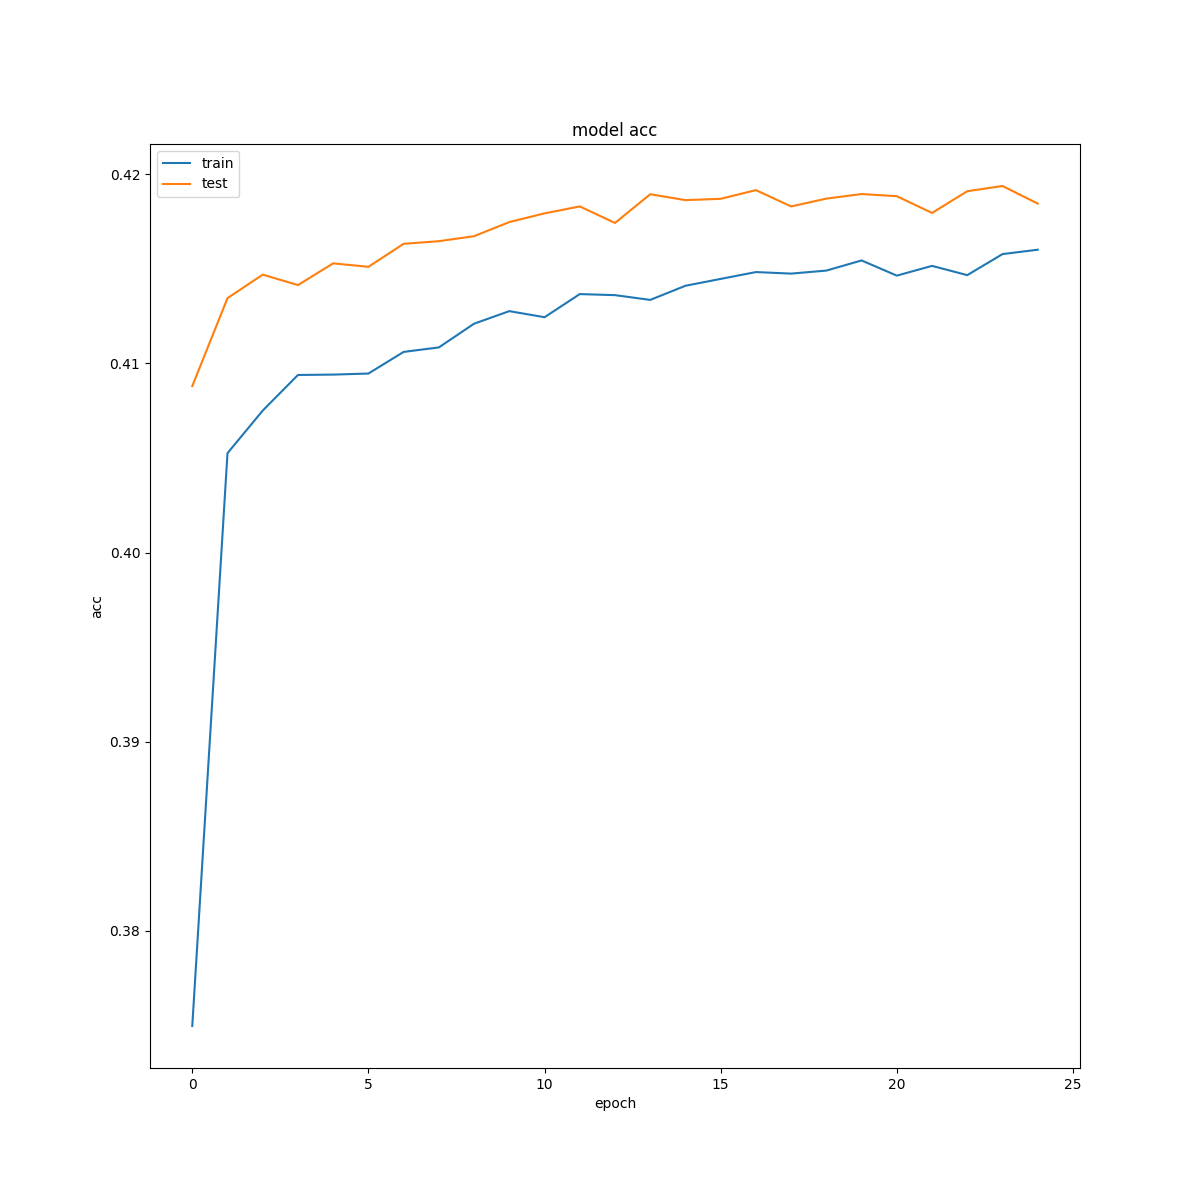
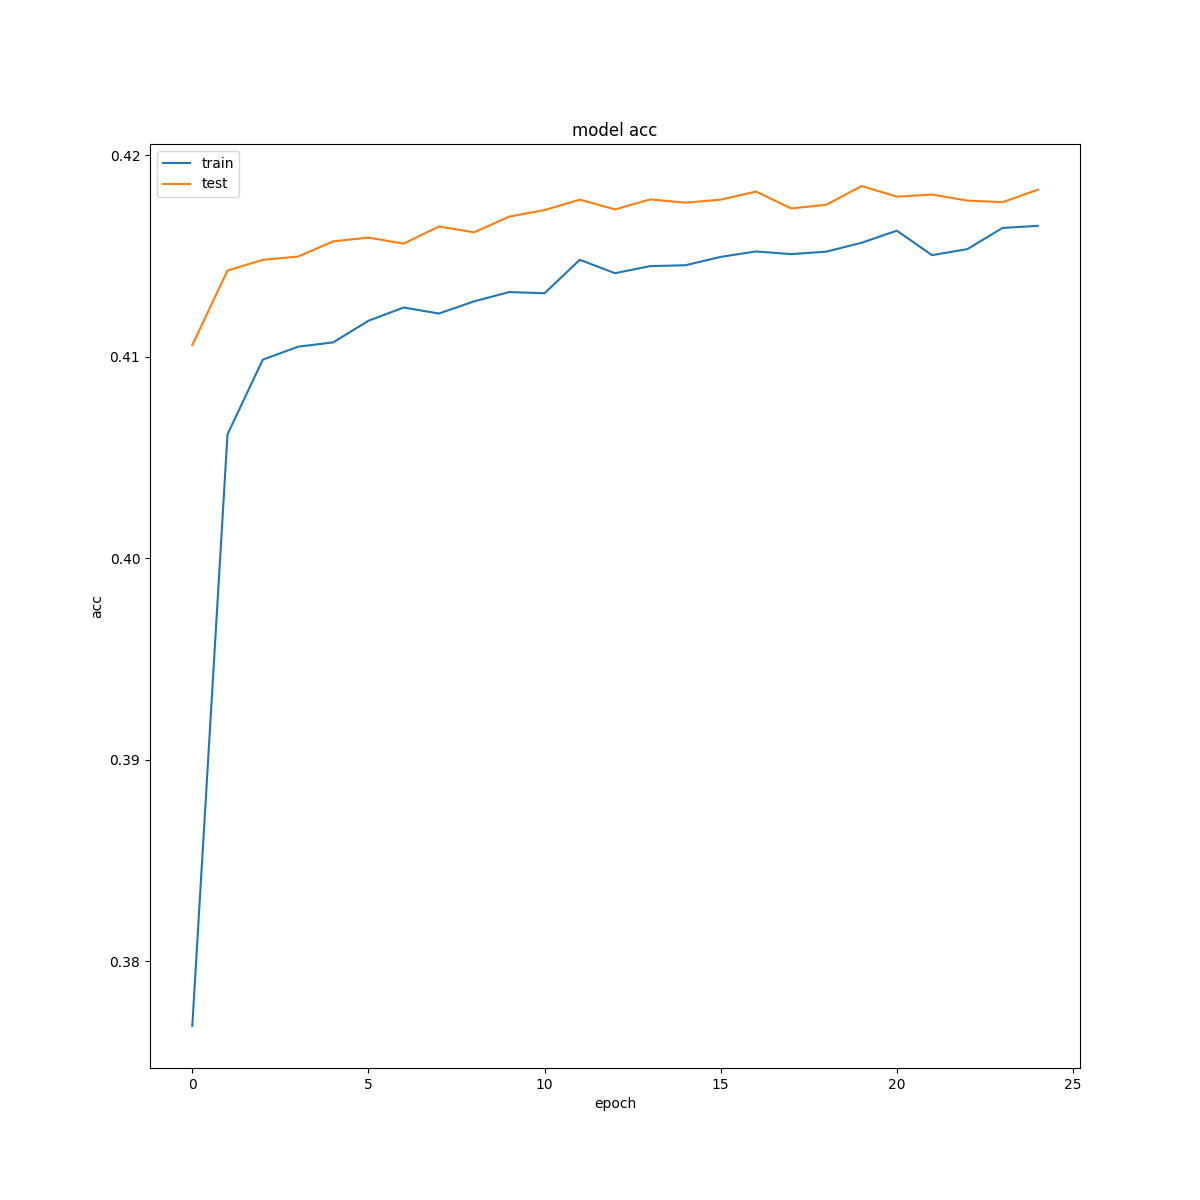
mfa gowalla desemepenho menor para nova oparação

diff --git a/model/next_poi_category_prediction_models/gowalla/mfa_rnn.py b/model/next_poi_category_prediction_models/gowalla/mfa_rnn.py
@@ -121,14 +121,12 @@ class MFA_RNN(NNBase):
         temporal_flatten = Flatten()(temporal_embedding)
         distance_flatten = Flatten()(distance_embbeding)
         duration_flatten = Flatten()(duration_embbeding)
-        id_flatten = Flatten()(id_embedding)
-        id_flatten = Dense(49)(id_flatten)
-        print("1  ", id_flatten.shape)
-        id_unit = tf.keras.layers.Reshape((7, 7))(id_flatten)
-        print("ttt", id_unit.shape)
+
+        # melhor -
+        distance_duration = tf.Variable(initial_value=0.1) * tf.multiply(distance_embbeding, duration_embbeding)
 
         l_p_flatten = Concatenate()([spatial_flatten, temporal_flatten, distance_flatten, duration_flatten])
-        l_p = Concatenate()([spatial_embedding, temporal_embedding, distance_embbeding, duration_embbeding])
+        l_p = Concatenate()([spatial_embedding, temporal_embedding, distance_embbeding, duration_embbeding, distance_duration])
 
         # l_p_flatten = Flatten()(l_p)
         # ids_flatten = Flatten()(id_flatten)
